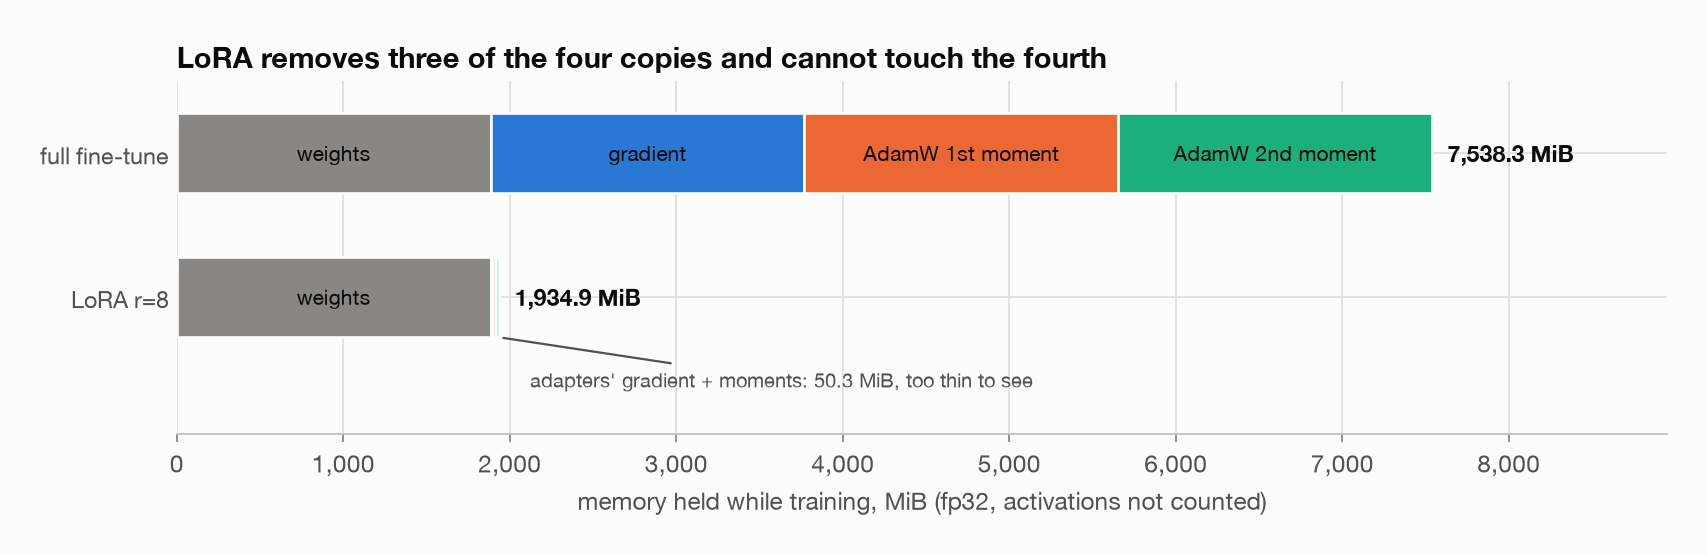
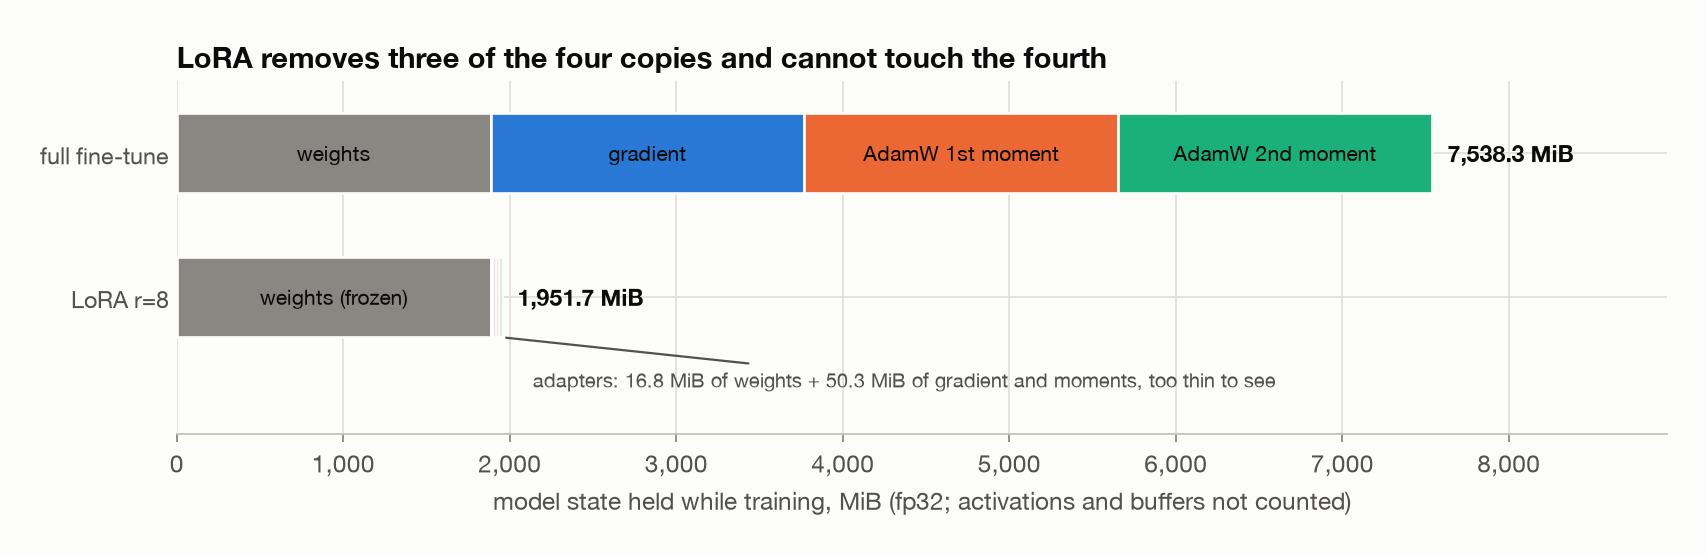
Post 6: restructure §4 per review: task, one example, measures, experiment, memory
Subsections in that order. Sofia's three tokens traced to the prompt's
trailing space; step-0 loss stated as the first batch before any update;
exp(-loss) described as a geometric mean; memory called model state, with
what it excludes and a link to Hugging Face's GPU memory guide; the 12 bytes
tied to fp32; adapter weights counted (1,951.7 MiB). Recaps in the short
version, §9 and the probe say model state too.

diff --git a/_posts/2026-09-26-llm-architectures-lora.md b/_posts/2026-09-26-llm-architectures-lora.md
@@ -33,7 +33,7 @@ LoRA avoids most of that by never changing the original weights. It freezes them
 Three findings are about cost:
 
 - **The adapter is 0.89% of the model**: 4,399,104 parameters, **16.8 MiB** ([§3](#where-the-adapters-go)).
-- **But training memory falls 3.9×, not 112×.** The gradients and optimizer state go away; the frozen weights don't, and in fp32 they cap the saving at 4× ([§4](#what-training-costs)).
+- **But model-state memory falls 3.9×, not 112×.** The gradients and optimizer state go away; the frozen weights don't, and in fp32 they cap the saving at 4×. That counts weights, gradients and optimizer moments only; activations come on top ([§4](#where-memory-goes)).
 - **And a step gets about three times faster, not a hundred.** The backward pass still carries the gradient through every frozen weight, and most of the time saved is the optimizer's ([§4](#what-training-costs)).
 
 Three are about what rank buys:
@@ -274,15 +274,19 @@ That exclusion is a real choice rather than an oversight, and it's the same 27.6
 
 ### 4. What training actually costs {#what-training-costs}
 
-Every number in this section comes from training on `recall`, so it's worth being clear about what that is before reading any of them.
+Before any numbers, a terminology warning: **`recall` is the name of a task, not the recall metric** from precision and recall. This post never uses the metric.
 
-**`recall` is the name of a task, not the recall metric.** If you've met *precision and recall* from classification, set that aside; this post never uses it. `recall` is the memorization task from [Setup](#two-tasks): 64 made-up facts, each a question with a one-word answer. `Q: Where is the amber anchor archive?` is answered `Sofia`, and nothing in the question hints at the city, so the only way to answer is to have stored it. The task is named for what the model has to do, recall a fact it was shown.
+#### What the experiment tests {#what-it-tests}
 
-**How it's scored: exact match.** After training, the model is given each question and writes an answer one token at a time, always taking the token it scores highest. It may write up to two tokens more than the answer needs, spaces and line breaks at either end are trimmed off, and the answer counts only if what's left is exactly `Sofia`. `Sof` is wrong, `Sofia, Bulgaria` is wrong, and a near miss earns nothing. The score is the number of questions answered exactly right, out of 40: the first 40 of the 64 facts. They're facts the model was trained on, deliberately. There's no rule connecting an archive to a city, so a fact it never saw would be a guess for any model, and the only thing worth testing is whether training stored what it was given. 40 of 40 means every answer came back letter for letter.
+The `recall` task from [Setup](#two-tasks) contains 64 invented facts, each a question with a one-word answer: `Q: Where is the amber anchor archive?` is answered `Sofia`. Nothing in the question lets the model work out `Sofia`. It has to memorize the pairing during training, which is why I call the task `recall`.
 
-**Why `recall`, and not `format`?** The memory and time this section measures depend on *what's trainable*, not on what's being learned, so one task is enough. `recall` is the harder of the two for an adapter: [§5](#what-rank-buys) shows a rank-1 adapter already masters `format`, while `recall`'s loss keeps falling as the adapter grows from rank 1 to rank 16, because 64 unrelated facts have to be stored somewhere. If the small adapter keeps up with a full fine-tune here, it isn't because the task was too easy to tell them apart.
+After training, I test the first 40 facts with greedy decoding and **exact match**. Greedy decoding means the model writes its answer one token at a time, always taking the token it scores highest, with room for up to two tokens more than the answer needs. Spaces and line breaks at either end are trimmed, and the answer counts only if what's left is exactly `Sofia`: `Sof` and `Sofia, Bulgaria` both score nothing. The score is the number right out of 40. These are deliberately facts from the training set, not held-out ones. The experiment asks whether LoRA can store the information it was trained on, not whether it can generalize to associations it never saw, which nothing could do here.
 
-**What training does with one fact.** Each fact becomes one training example, the question and the answer joined into a single run of tokens. At every position the model does what it always does, predicting the next token, and training grades some of those predictions ([`the_training_run`](https://github.com/bearbearyu1223/llm-architectures-refresher/blob/main/src/llmrefresher/demos/d06_lora.py)):
+I use `recall` rather than `format` because the resource measurements below depend on what's trainable, not on what's learned, so one task is enough, and `recall` gives the adapters the more demanding problem. In [§5](#what-rank-buys), rank 1 is already enough to solve `format`, while `recall`'s loss keeps falling as the rank grows from 1 to 16. So if LoRA keeps up with a full fine-tune here, the comparison isn't hiding behind a trivial task.
+
+#### What training learns from one fact {#one-fact}
+
+Fine-tuning doesn't introduce a new learning mechanism. The model still predicts the next token at every position, exactly as it did in pretraining. What changes is which of those predictions count. Here is one fact as the trainer builds it ([`the_training_run`](https://github.com/bearbearyu1223/llm-architectures-refresher/blob/main/src/llmrefresher/demos/d06_lora.py)):
 
 ```text
   One recall example as the trainer builds it. The prompt is
@@ -311,11 +315,31 @@ Every number in this section comes from training on `recall`, so it's worth bein
   4 of 16 positions are graded: the three that predict the
   answer's pieces, and the one that predicts end-of-text, which is
   what teaches the model to stop.
+
+  'Sofia' on its own is 3 tokens ('S', 'of', 'ia'). With a leading
+  space, ' Sofia' is 1 token.
 ```
 
-Only the answer is graded. Positions 0 to 10 still run through the model, because the answer needs them as context, but what they predict doesn't count: the point is to teach the model to answer the question, not to recite it. The prompt ends with a space after `A:`, and the tokenizer keeps that space as a token of its own (position 11), so the first graded prediction is the one made there. Notice that `Sofia` is three tokens, not one. The tokenizer splits words it hasn't seen often into pieces, and the model has to get all three right, then predict end-of-text so it stops.
+The prompt's tokens still pass through the model, because they're the context the answer is predicted from, but their next-token predictions are masked out of the loss: the point is to teach the model to answer the question, not to recite it. Only the answer's tokens and the final end-of-text token are graded, and grading end-of-text is what teaches the model to stop.
 
-**Loss: the score training steers by.** Exact match only says right or wrong, about a finished answer, so it can't tell training which way to nudge the weights. Training needs a score that improves a little with every small improvement, and that's the **loss**. For each graded position, take the probability the model gave the correct token and compute its negative logarithm, then average over all the graded positions. A correct token given probability 1 scores 0, a coin flip (1 in 2) scores 0.69, and a 1-in-1,000 chance scores 6.9. Lower is better, and training is the business of pushing it down. The tables below report both: the loss shows how sure the model became, and exact match shows whether it actually answers right.
+`Sofia` is one answer word but three tokens here, and the split comes from the prompt. The prompt ends with a space after `A:`, which the tokenizer keeps as a token of its own (position 11), so the answer is tokenized without a leading space. Qwen's vocabulary holds ` Sofia`, with its space, as a single token, but has to build `Sofia` without one from three pieces, as the receipt's last line shows. Exact match therefore asks the model to produce `S`, `of` and `ia` in order, and then stop.
+
+#### How learning is measured {#loss-and-exact-match}
+
+Exact match is useful for evaluation but useless as a training signal, because an answer is either right or wrong. It can't tell the optimizer that raising the correct token's probability from 1% to 20% was progress. The **loss** can. At each graded position, let $$p$$ be the probability the model gave the correct next token. That position's loss is
+
+$$\text{loss} = -\log p$$
+
+where $$\log$$ is the natural logarithm, and the training loss is the average of this over all the graded positions in a batch. A probability of 1 gives a loss of 0, a coin flip (0.5) gives 0.69, and a 1-in-1,000 chance (0.001) gives 6.91. Lower is better, and training is the business of pushing it down.
+
+The two measurements answer different questions, and the tables below report both:
+
+- **Loss:** how much probability does the model give the correct next tokens?
+- **Exact match:** can it actually write the whole answer correctly?
+
+A loss can also be turned back into a probability: $$e^{-\text{loss}}$$ undoes the logarithm. Because the loss is an average of logarithms, what comes back is the *geometric* mean of the per-token probabilities, not the ordinary average, and it's pulled down hard by any token the model gets badly wrong.
+
+#### Full fine-tune against LoRA {#full-vs-lora}
 
 One **step** takes 8 examples, runs them through the model, computes the loss, works backward to get a gradient for every trainable number, and has AdamW nudge each of them. Two hundred steps is this much data ([`the_training_run`](https://github.com/bearbearyu1223/llm-architectures-refresher/blob/main/src/llmrefresher/demos/d06_lora.py) again):
 
@@ -327,31 +351,48 @@ One **step** takes 8 examples, runs them through the model, computes the loss, w
   / 64 facts           25.0  times each, on average
 ```
 
-The 8 are drawn at random with replacement, so some facts come up more than 25 times and some fewer. After the last step, the model is scored by exact match as described above.
+The 8 are drawn at random with replacement, so some facts come up more than 25 times and some fewer.
 
-Now train the thing twice, on the same task, with the same data in the same order, and change only what's trainable. The task is `recall`, 200 steps, batch of 8 ([`what_training_costs`](https://github.com/bearbearyu1223/llm-architectures-refresher/blob/main/src/llmrefresher/demos/d06_lora.py)):
+Now the experiment. Train the same model twice on the same `recall` examples, in the same order, for 200 steps with batches of 8. The important change is which parameters AdamW is allowed to update:
+
+- **Full fine-tune:** all 494,032,768 parameters.
+- **LoRA r=8:** the base model frozen, and only the 4,399,104 adapter parameters from [§3](#where-the-adapters-go).
+
+The other difference, the learning rate, gets [its own check](#learning-rates) below ([`what_training_costs`](https://github.com/bearbearyu1223/llm-architectures-refresher/blob/main/src/llmrefresher/demos/d06_lora.py)):
 
 ```text
                                 full fine-tune   LoRA r=8
   ---------------------------------------------------------
   trainable parameters             494,032,768  4,399,104
   share of the model                   100.00%      0.89%
-  weights held (MiB)                   1,884.6    1,884.6
+  base model weights (MiB)             1,884.6    1,884.6
+  adapter weights (MiB)                   none       16.8
   gradient + two moments (MiB)         5,653.8       50.3
-  total held (MiB)                     7,538.3    1,934.9
+  model state counted (MiB)            7,538.3    1,951.7
   loss at step 0                        6.9305     6.9305
   loss, mean of last 10 steps           0.0002     0.0013
   exact match                         40 of 40   40 of 40
   seconds per step                        0.67       0.21
 
-  Both columns hold the weights: a frozen parameter still has to be
-  in memory for the forward pass. Neither column counts the
-  activations the backward pass stores, which depend on batch size.
+  Both columns hold the base weights: a frozen parameter still has
+  to be in memory for the forward pass. This counts model state
+  only, all in fp32. Not counted: the activations the backward pass
+  stores (they grow with batch size and sequence length), temporary
+  buffers, and allocator overhead. It is not peak GPU memory.
 ```
 
-Both runs learn the task: 40 of 40 facts recalled exactly. The loss says the same thing in more detail. At step 0 it's 6.93: on average, the untrained model gave a correct answer token about a 1-in-1,000 chance. By the end it's 0.0002 for the full fine-tune and 0.0013 for LoRA, an average above 99.8% for both. The full fine-tune ends slightly lower, and both are far below where they started.
+Both runs learn the task: 40 of 40 facts recalled exactly. The loss gives more detail. `loss at step 0` is measured on the first batch, before the first update, so it describes the base model before any training on this task. It's 6.9305 in both columns because LoRA's $$B$$ starts at zero ([§2](#the-mechanism)), which makes the adapted model identical to the base model until the first step changes it. Since $$e^{-6.93} \approx 0.001$$, the base model gave the correct answer tokens a geometric-mean probability of roughly 0.1%. By the end, the mean loss over the last ten steps is 0.0002 for the full fine-tune and 0.0013 for LoRA: $$e^{-0.0002} \approx 99.98\%$$ and $$e^{-0.0013} \approx 99.87\%$$. The full fine-tune ends slightly more certain, and both are far from where they started.
 
-The memory rows are the ones to read carefully, because they're where the usual summary of LoRA goes wrong. **Both columns hold the weights.** A frozen parameter is still a parameter the forward pass has to multiply by, so it lives in memory either way, and the 1,884.6 MiB row is identical in both columns by construction. What LoRA removes is the *per-trainable-parameter* cost: the gradient and AdamW's two moments, 12 bytes each in fp32 ([`what_training_costs`](https://github.com/bearbearyu1223/llm-architectures-refresher/blob/main/src/llmrefresher/demos/d06_lora.py) again):
+#### Where LoRA actually saves memory {#where-memory-goes}
+
+The parameter counts make LoRA look as if it should need a tiny fraction of the memory: 494,032,768 trainable parameters against 4,399,104, **112× fewer**. That doesn't mean the run needs 112× less memory, because freezing a weight doesn't make it disappear. Every base weight is still multiplied in the forward pass, so it stays in memory either way. What freezing removes is the *training state* attached to each weight: its gradient and AdamW's two moments.
+
+![Model state held while training, drawn to scale: the full fine-tune's weights, gradient and two AdamW moments as four equal blocks, against LoRA's frozen weights plus an adapter sliver too thin to see](/assets/picture/2026-09-26-llm-architectures-lora/training-memory-light.png){: .light width="1000" height="325" }
+![Model state held while training, drawn to scale: the full fine-tune's weights, gradient and two AdamW moments as four equal blocks, against LoRA's frozen weights plus an adapter sliver too thin to see](/assets/picture/2026-09-26-llm-architectures-lora/training-memory-dark.png){: .dark width="1000" height="325" }
+
+The figure draws the table's memory rows to scale. The full fine-tune holds four equal blocks, the weights and three blocks of training state. LoRA holds the same frozen weights, plus the adapters' own weights and their training state, too thin to see at this scale.
+
+In this demo the training state is 12 bytes per trainable parameter: a 4-byte gradient and two 4-byte moments, all in fp32. That's a property of how this demo trains, not a constant of AdamW. Mixed-precision training counts differently: it typically keeps 16-bit weights for the forward and backward passes beside a 32-bit master copy, 32-bit moments, and gradients in 16 or 32 bits, for 16 to 18 bytes per trainable parameter in all. Here's the fp32 arithmetic ([`what_training_costs`](https://github.com/bearbearyu1223/llm-architectures-refresher/blob/main/src/llmrefresher/demos/d06_lora.py) again):
 
 ```text
   step                                           result
@@ -364,18 +405,20 @@ The memory rows are the ones to read carefully, because they're where the usual 
   the same for the adapters                  52,789,248       bytes
   ratio                                            112x        less
 
-  + the weights, held either way          1,976,131,072       bytes
-  total, full fine-tune                   7,904,524,288       bytes
-  total, LoRA r=8                         2,028,920,320       bytes
+  + base weights, held either way         1,976,131,072       bytes
+  + adapter weights, LoRA only               17,596,416       bytes
+  model state, full fine-tune             7,904,524,288       bytes
+  model state, LoRA r=8                   2,046,516,736       bytes
   ratio of totals                                  3.9x        less
 ```
 
-**112× fewer trainable parameters, but only 3.9× less memory.** That gap is the practical content of this section. If you read "LoRA trains 0.89% of the parameters" as "LoRA needs 0.89% of the memory", you'll size a machine wrong by a factor of thirty.
+These totals are **model state** only: weights, gradients and optimizer moments. They're deliberately not peak GPU memory. A real training run also holds the activations the backward pass needs (the in-between results the forward pass saves), temporary tensors from operations like softmax and matrix multiplication, and other overhead; Hugging Face's guide to [GPU memory usage](https://huggingface.co/docs/transformers/model_memory_anatomy) walks through each. Activations in particular grow with batch size and sequence length, and freezing the weights doesn't remove them, because the backward pass still has to run through every layer to reach the adapters ([below](#where-the-time-goes)). So these numbers explain where LoRA's saving comes from, and they aren't a GPU-sizing calculator.
 
-And 3.9× is close to the best this comparison can ever give. [§1](#where-a-fine-tunes-cost-is) counted four copies of the model, all the same size. LoRA removes three of them almost entirely and cannot touch the fourth, because the forward pass needs the weights. Leaving aside activations (the in-between results the forward pass saves for the backward pass, which grow with the batch and which neither column counts), **4× is the ceiling in fp32**, whatever the rank, whatever the model. In mixed precision the ceiling is nearer 8×, since a full fine-tune holds about 16 bytes per parameter and a frozen bf16 weight holds 2. Measuring 3.9× means the adapters are already down in the noise; there is nothing left to win on this axis, and the next real saving has to come from making the weights themselves smaller, which is [post 7](#whats-next).
+Within that accounting, 3.9× is close to the best LoRA can ever do. [§1](#where-a-fine-tunes-cost-is) counted four model-sized blocks. LoRA removes three of them almost entirely and can't touch the fourth, because the forward pass needs the weights. So for model state in fp32, **4× is the ceiling**, whatever the rank and whatever the model. In mixed precision the ceiling is nearer 8×, since a full fine-tune holds about 16 bytes per parameter and a frozen bf16 weight holds 2. Measuring 3.9× means the adapters are already down in the noise, and the next real saving has to come from making the weights themselves smaller, which is [post 7](#whats-next).
 
-![Memory held while training, drawn to scale: the full fine-tune's four equal copies of the model against LoRA's one copy plus an adapter sliver too thin to see](/assets/picture/2026-09-26-llm-architectures-lora/training-memory-light.png){: .light width="1000" height="325" }
-![Memory held while training, drawn to scale: the full fine-tune's four equal copies of the model against LoRA's one copy plus an adapter sliver too thin to see](/assets/picture/2026-09-26-llm-architectures-lora/training-memory-dark.png){: .dark width="1000" height="325" }
+So the headline isn't "LoRA uses 112× less memory". In this experiment LoRA makes 112× fewer parameters trainable, which removes almost all of the gradient and optimizer state for the base model. The frozen base weights are still there, and this accounting leaves out activations and other runtime memory. Under the fp32 accounting used here, **112× fewer trainable parameters becomes about 3.9× less model-state memory.** Read "LoRA trains 0.89% of the parameters" as "LoRA needs 0.89% of the memory" and you'd be off by a factor of about thirty on model state alone.
+
+#### Why the learning rates differ {#learning-rates}
 
 The two runs also used different learning rates: `2e-4` for the adapters against `1e-5` for the full fine-tune. Each method got the rate it can use, which raises a fair question about whether the comparison is tilted, so the demo runs the full fine-tune a second time at the adapters' rate ([`the_learning_rate`](https://github.com/bearbearyu1223/llm-architectures-refresher/blob/main/src/llmrefresher/demos/d06_lora.py)):
 
@@ -388,9 +431,11 @@ The two runs also used different learning rates: `2e-4` for the adapters against
     vs untrained                     1.06x     3,120x
 ```
 
-The last two rows need a measure this post hasn't used yet. **Perplexity** is the one [post 4](/posts/llm-architectures-quantization/#perplexity-says-fine) judged quantization by: have the model predict every token of a fixed passage of ordinary prose, and ask how many tokens it is, on average, torn between. Lower is better. The passage is post 4's own, 550 tokens about harbours, photosynthesis and interest rates, so the untrained model's 20.87 is post 4's fp32 reference, and nothing in it looks like a date or a made-up archive. What happens to it is a measure of what a fine-tune did to everything it wasn't trying to change.
+The last two rows need a measure this post hasn't used yet. **Perplexity** is the one [post 4](/posts/llm-architectures-quantization/#perplexity-says-fine) judged quantization by: have the model predict every token of a fixed passage of ordinary prose, and ask how many tokens it is, on average, torn between. Lower is better. The passage is post 4's own, 550 tokens about harbours, photosynthesis and interest rates, so the base model's 20.87 is post 4's fp32 reference (the tables call the base model `untrained`, meaning before any fine-tuning), and nothing in it looks like a date or a made-up archive. What happens to it is a measure of what a fine-tune did to everything it wasn't trying to change.
 
 At `1e-5` the full fine-tune learns all 40 facts, and the passage barely notices: 22.08. At `2e-4` it learns fewer of them, and the passage goes to 65,115: the model no longer predicts ordinary English. That run is also the least reproducible thing in this post. Three runs of the same program sent the passage to about 65 thousand, 3 million and 87 million, because a model knocked that far off course amplifies every rounding difference along the way. What never changed is that it ends up thousands of times worse than where it started, and learns the task less well while doing it. The adapter takes the same twenty-times-larger step without that damage, because what it's stepping on is a pair of small new matrices beside a frozen model, not the model itself. It doesn't leave the model untouched, though: on this task the rank-8 adapter moved the passage slightly *more* than the full fine-tune did at its own rate, +7.9% against +5.8% ([§6](#what-it-forgot)). What freezing buys is that a large learning rate stops being dangerous.
+
+#### Where the time goes {#where-the-time-goes}
 
 One number in the first table isn't the saving it appears to be. Seconds per step improve about three times, nowhere near 112×. Splitting one step into its three phases shows where the time goes ([`step_breakdown`](https://github.com/bearbearyu1223/llm-architectures-refresher/blob/main/src/llmrefresher/demos/d06_lora.py)):
 
@@ -400,9 +445,9 @@ One number in the first table isn't the saving it appears to be. Seconds per ste
   phase             full fine-tune  LoRA r=8  full / LoRA
   ---------------------------------------------------------
   forward pass                  84        93         0.9x
-  backward pass                186       113         1.6x
-  optimizer update             406        16        25.9x
-  one step                     676       221         3.1x
+  backward pass                182       111         1.6x
+  optimizer update             400        24        16.7x
+  one step                     666       228         2.9x
 
   Wall clock, so the milliseconds move from run to run. The forward
   pass is the same work in both columns; the backward pass is not,
@@ -740,7 +785,7 @@ Post 5 ended on a version of this same shape, so put the two side by side. There
 
 ### 9. What follows from all this {#what-follows}
 
-**LoRA does not make the model cheaper to hold; it makes the *update* cheap.** The frozen weights are still resident during training, so the total memory falls by 3.9× while the trainable parameter count falls by 112×. Post 5's lesson in a new place: the number in the headline and the number on the invoice measure different resources.
+**LoRA does not make the model cheaper to hold; it makes the *update* cheap.** The frozen weights are still resident during training, so model-state memory (weights, gradients and optimizer moments) falls by 3.9× while the trainable parameter count falls by 112×. Post 5's lesson in a new place: the number in the headline and the number on the invoice measure different resources.
 
 **What rank you need is a property of the task, not of the method.** A rule that applies to every example was learned perfectly at rank 1. Sixty-four arbitrary facts kept getting firmer up to rank 16. Neither number transfers to your problem, and the useful move is to sweep, which is affordable: each run in §5 took about a third of a full fine-tune's time per step and a quarter of its memory. Run each rank more than once, too, because at this scale the seed moved exact match as much as rank did.
 
@@ -758,7 +803,7 @@ One question to close on, the kind this material gets asked, and what separates 
 
 Both halves are half right, and they fail in different directions.
 
-**1. Separate trainable parameters from memory.** The parameter count falls **112×**; the memory falls **3.9×**, from 7,538.3 MiB to 1,934.9 MiB. What disappeared is the gradient and AdamW's two moments, 12 bytes per trainable parameter. What did not is the weights, because a frozen parameter still has to be there for the forward pass. If the model didn't fit before, LoRA may not be the thing that makes it fit.
+**1. Separate trainable parameters from memory.** The parameter count falls **112×**; model-state memory falls **3.9×**, from 7,538.3 MiB to 1,951.7 MiB, before activations, which neither number counts. What disappeared is the gradient and AdamW's two moments, 12 bytes per trainable parameter in fp32. What did not is the weights, because a frozen parameter still has to be there for the forward pass. If the model didn't fit before, LoRA may not be the thing that makes it fit.
 
 **2. And separate memory from time.** A step got about three times faster here, not a hundred. The forward pass costs the same. The backward pass still has to carry the gradient *through* every frozen weight to reach the adapters, and got only 1.6× cheaper. Most of the saving is the optimizer update that no longer touches 494 million parameters.
 
